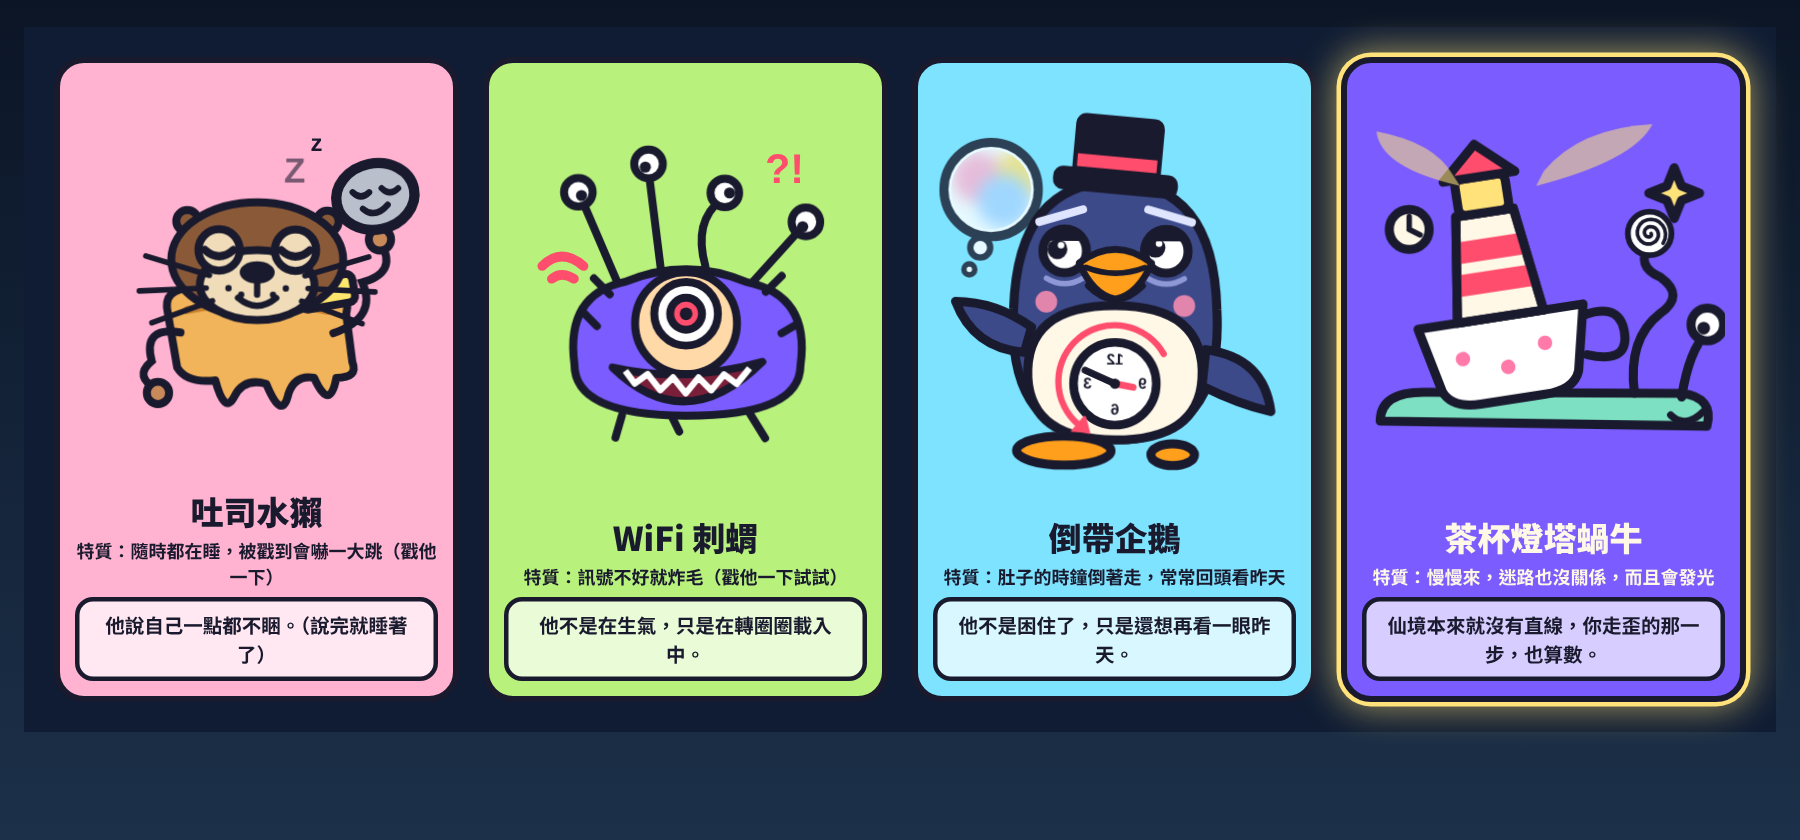
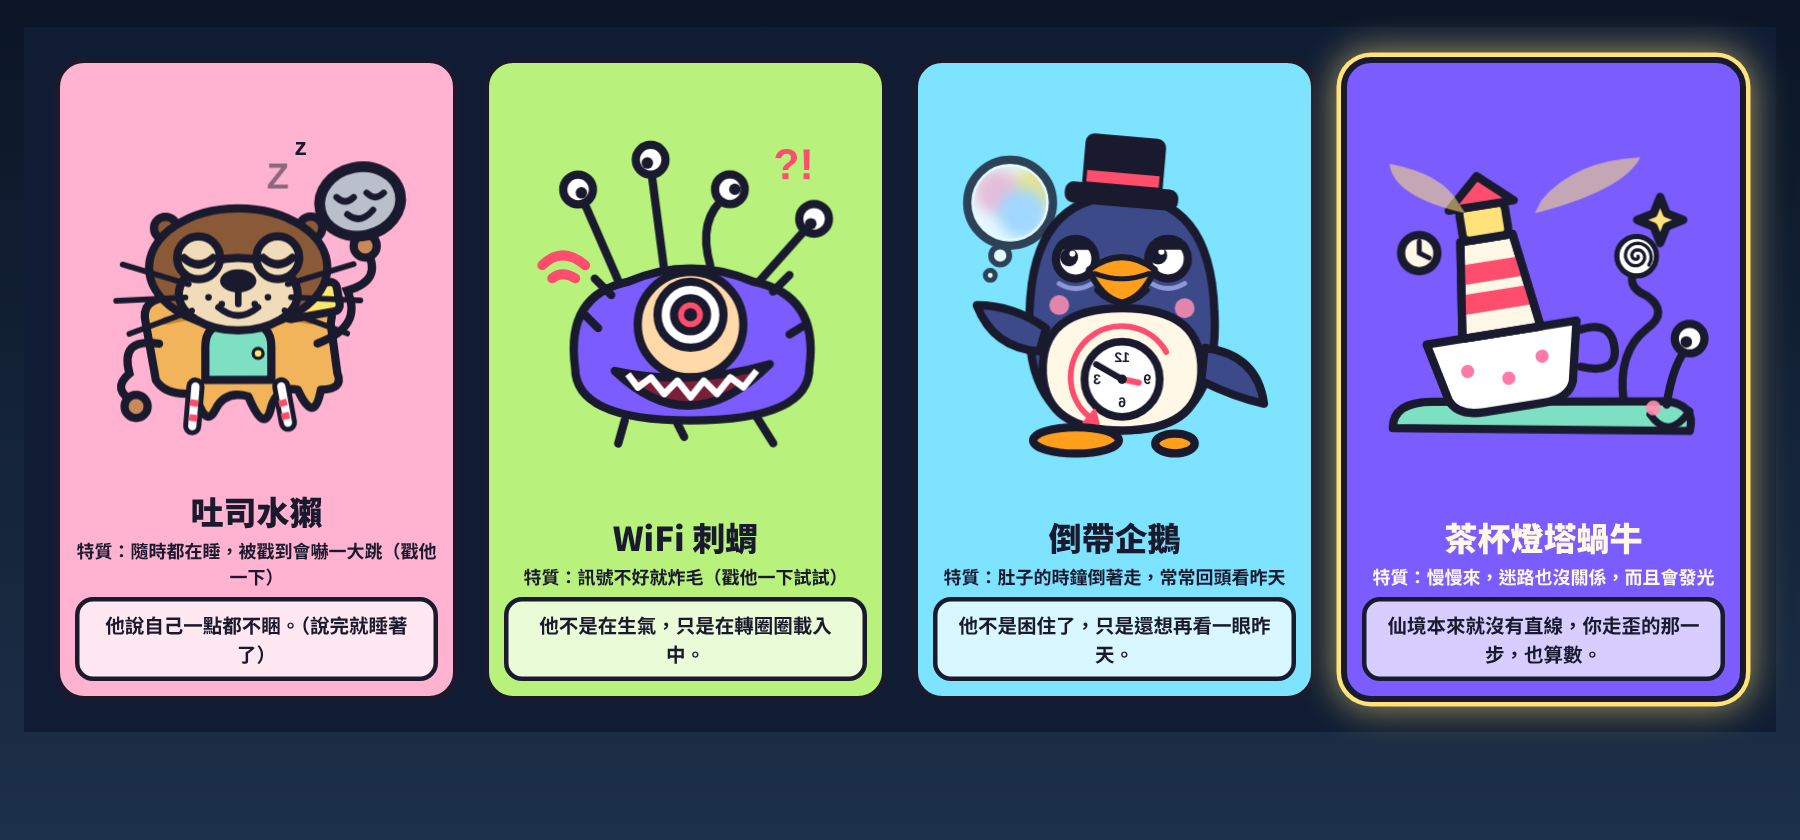
Lighthouse: 抽牌小樣本，四張牌大小一致、水獺加小門與條紋襪、蝸牛加表情
Claude-Session: https://claude.ai/code/session_01QMXbFy7GatcecM2zJaJAS8

diff --git a/lighthouse/cards-sample.html b/lighthouse/cards-sample.html
@@ -113,9 +113,15 @@ const eyeSpiral = (x,y,r=12) => { let d = ""; for(let i = 0; i <= 44; i++){ cons
   return `<g class="blink"><circle cx="${x}" cy="${y}" r="${r}" fill="#fff" stroke="${INK}" stroke-width="3.2"/><path d="${d}" fill="none" stroke="${INK}" stroke-width="2" stroke-linecap="round" stroke-linejoin="round"/></g>`; };
 const ART = {
   /* 吐司水獺：奶油融化中，三隻眼睛高低不一，手像麵條 */
-  otter: `<svg viewBox="-14 -10 228 220"><g class="wob">
+  otter: `<svg viewBox="0.9 -15.3 220 220"><g class="wob">
     <path d="M44 120 Q40 104 60 104 L140 104 Q160 104 156 120 L160 150 Q164 160 150 160 Q146 182 136 160 Q124 158 120 170 Q116 188 106 164 Q92 160 86 172 Q80 184 74 162 Q56 164 50 154 Z" fill="#f2b45a" ${o}/>
     <path d="M56 118 Q100 108 144 118" fill="none" stroke="#c9822e" stroke-width="5" stroke-linecap="round"/>
+    <path d="M74 158 L72 182" stroke="${INK}" stroke-width="11" stroke-linecap="round"/><path d="M74 158 L72 182" stroke="#fff" stroke-width="5" stroke-linecap="round"/>
+    <path d="M73.5 166 L72.8 170 M73 175 L72.4 179" stroke="#ff4d6d" stroke-width="5"/>
+    <path d="M126 158 L130 180" stroke="${INK}" stroke-width="11" stroke-linecap="round"/><path d="M126 158 L130 180" stroke="#fff" stroke-width="5" stroke-linecap="round"/>
+    <path d="M126.5 166 L127.5 170 M128 174 L129 178" stroke="#ff4d6d" stroke-width="5"/>
+    <path d="M80 130 Q80 116 94 116 L106 116 Q120 116 120 130 L120 150 L80 150Z" fill="#7ee0c3" ${o} transform="translate(0 4)"/>
+    <circle cx="112" cy="138" r="3" fill="#ffe66d" stroke="${INK}" stroke-width="2"/>
     <g transform="rotate(-10 150 112)"><rect x="128" y="96" width="34" height="18" rx="4" fill="#ffe66d" ${o}/></g>
     <path d="M52 132 Q28 128 34 150 Q22 160 38 168" fill="none" stroke="${INK}" stroke-width="5" stroke-linecap="round"/><circle cx="38" cy="170" r="7" fill="#c98a5a" ${o}/>
     <path d="M148 132 Q176 122 166 100 Q188 94 178 76" fill="none" stroke="${INK}" stroke-width="5" stroke-linecap="round"/><circle cx="177" cy="73" r="7" fill="#c98a5a" ${o}/><g class="rock"><g transform="translate(174 46) scale(1.3) translate(-177 -52)"><ellipse cx="177" cy="52" rx="19" ry="16" fill="#b9c0cc" ${o} transform="rotate(-12 177 52)"/>
@@ -136,7 +142,7 @@ const ART = {
     <g class="zz" fill="${INK}" font-weight="900" font-family="sans-serif"><text x="116" y="34" font-size="22">Z</text></g>
     <g class="zz" style="animation-delay:.7s" fill="${INK}" font-weight="900" font-family="sans-serif"><text x="134" y="18" font-size="15">z</text></g></svg>`,
   /* WiFi 刺蝟：刺是長眼睛的天線，一隻超大眼，嘴巴開到耳朵 */
-  hedgehog: `<svg viewBox="-14 -10 228 220"><g class="wob"><g class="ants">
+  hedgehog: `<svg viewBox="-13.2 -10.1 220 220"><g class="wob"><g class="ants">
     <path d="M60 100 L34 40" stroke="${INK}" stroke-width="5" stroke-linecap="round"/><circle cx="32" cy="36" r="9" fill="#fff" ${o}/><circle cx="34" cy="38" r="3.5" fill="${INK}"/>
     <path d="M84 84 L76 22" stroke="${INK}" stroke-width="5" stroke-linecap="round"/><circle cx="76" cy="18" r="9" fill="#fff" ${o}/><circle cx="74" cy="20" r="3.5" fill="${INK}"/>
     <path d="M112 82 Q104 54 122 40" fill="none" stroke="${INK}" stroke-width="5" stroke-linecap="round"/><circle cx="124" cy="36" r="9" fill="#fff" ${o}/><circle cx="127" cy="36" r="3.5" fill="${INK}"/>
@@ -154,7 +160,7 @@ const ART = {
     <g class="wifi" fill="none" stroke="#ff4d6d" stroke-width="6" stroke-linecap="round"><path d="M10 82 Q22 70 36 82"/><path d="M16 90 Q22 85 30 90"/></g>
     <text x="150" y="30" font-size="26" font-weight="900" fill="#ff4d6d" font-family="sans-serif">?!</text></svg>`,
   /* 倒帶企鵝：肚子的時鐘倒著走，總是回頭看昨天 */
-  penguin: `<svg viewBox="0 -16 200 216"><g class="wob">
+  penguin: `<svg viewBox="-14.7 -20.2 220 220"><g class="wob">
     <path d="M100 30 Q154 30 156 100 Q160 172 100 172 Q40 172 44 100 Q46 30 100 30Z" fill="#3c4a8a" ${o}/>
     <g transform="translate(0 0) rotate(5 100 28)"><rect x="78" y="-4" width="44" height="34" rx="3" fill="#1a1a2e" ${o}/><rect x="68" y="26" width="64" height="8" rx="3" fill="#1a1a2e" ${o}/><rect x="78" y="16" width="44" height="7" fill="#ff4d6d"/></g>
     <path d="M100 98 Q150 98 148 138 Q146 172 100 172 Q54 172 52 138 Q50 98 100 98Z" fill="#fff8e7" ${o}/>
@@ -183,13 +189,13 @@ const ART = {
     </g>
     </svg>`,
   /* 燈塔蝸牛（閃卡）：茶杯裡長出歪歪的燈塔，眼睛長在打結的觸角上 */
-  snail: `<svg viewBox="0 0 200 200"><g class="wob">
+  snail: `<svg viewBox="-8.7 -20.7 220 220"><g class="wob">
     <path d="M10 170 Q10 154 34 154 L176 154 Q194 156 190 172 Z" fill="#7ee0c3" ${o}/>
     <path d="M150 154 Q146 124 164 110 Q178 100 164 90 Q150 84 158 72" fill="none" stroke="${INK}" stroke-width="5" stroke-linecap="round"/>
     ${eyeSpiral(158,66,12)}
     <path d="M176 156 Q180 130 190 120" fill="none" stroke="${INK}" stroke-width="5" stroke-linecap="round"/>
     <circle cx="190" cy="116" r="9" fill="#fff" ${o}/><circle cx="188" cy="118" r="3.5" fill="${INK}"/>
-    <path d="M170 166 Q178 174 188 164" fill="none" stroke="${INK}" stroke-width="4" stroke-linecap="round"/>
+    <path d="M166 162 Q177 178 190 160" fill="none" stroke="${INK}" stroke-width="4.5" stroke-linecap="round"/><circle cx="168" cy="158" r="4.5" fill="#ff8fb1" opacity=".9"/>
     <g transform="rotate(-9 80 150)">
       <path d="M36 112 L128 112 L120 148 Q116 158 100 158 L64 158 Q48 158 44 148 Z" fill="#fff" ${o}/>
       <circle cx="58" cy="132" r="4" fill="#ff7aa8"/><circle cx="82" cy="140" r="4" fill="#ff7aa8"/><circle cx="104" cy="130" r="4" fill="#ff7aa8"/>
